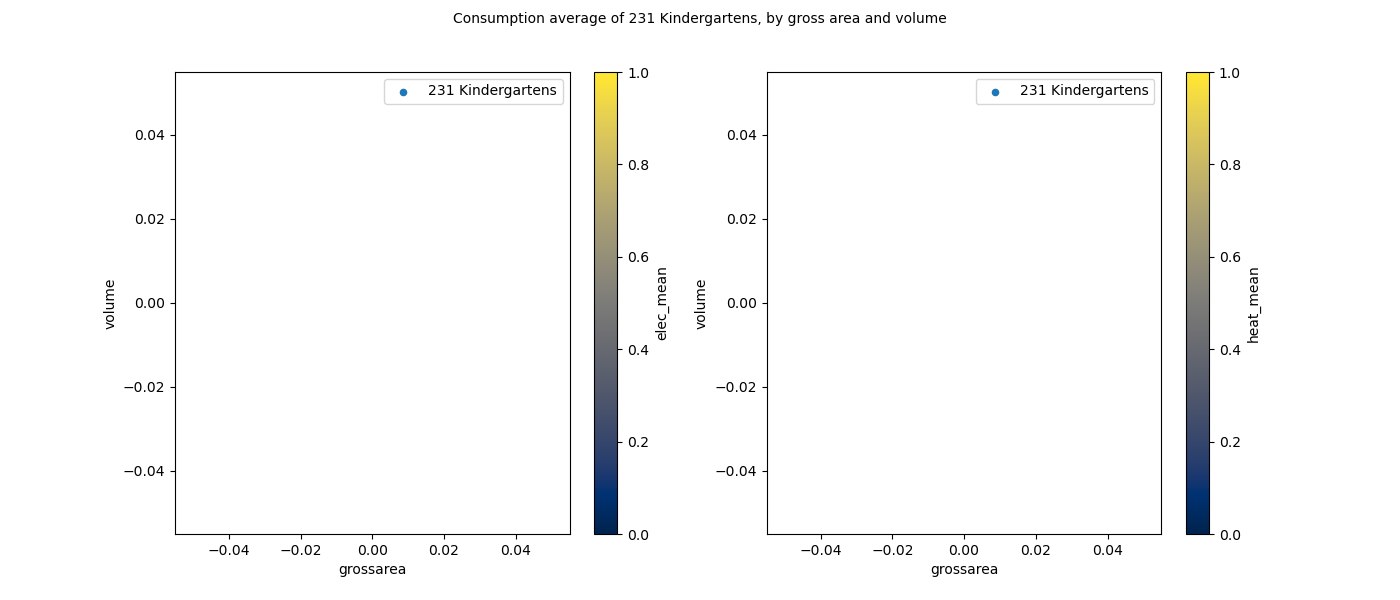
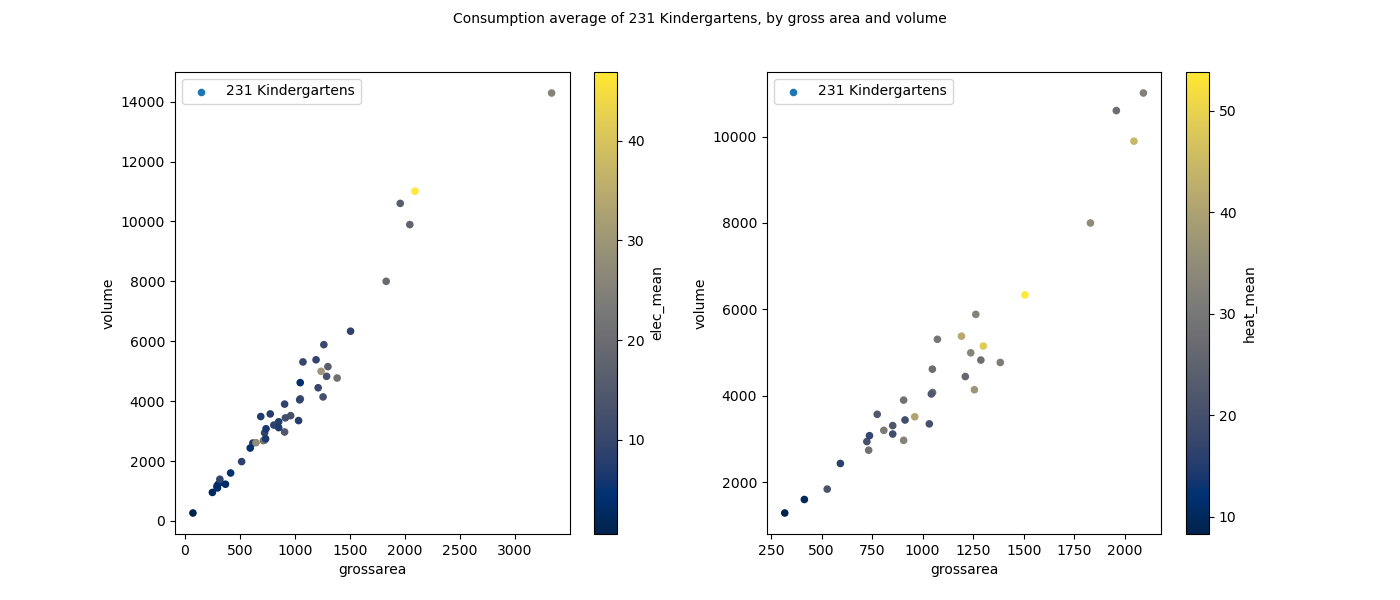
some results

diff --git a/Scripts/intendedUseConsumption.py b/Scripts/intendedUseConsumption.py
@@ -15,6 +15,7 @@ def getMeanDF(retrospective, id_list):
         mean = retrospective.getMeanEnergyByProperty(prop_id)
         heat_means.append(mean[0])
         elec_means.append(mean[1])
+        print(str(mean[0]) + ", " + str(mean[1]))
 
     new_meta_df = meta_df[meta_df['property_id'].isin(id_list)]
     new_meta_df["heat_mean"] = heat_means
@@ -32,7 +33,7 @@ start_time = datetime(2015, 1, 1, 0)
 end_time = datetime(2020, 1, 1, 0)
 
 # Getting the most recorded intended uses
-use_list = meta_df["intended_use"].value_counts()[0:5].index.to_list()
+use_list = meta_df["intended_use"].value_counts()[4:5].index.to_list()
 
 # Create directory if it doesn't exist
 dirName = '../Graphs/useConsumption/'
@@ -51,15 +52,18 @@ for use in use_list:
 
 
     # Setting a retrospective object
+    print("Processing " + use + " retrospective....")
     r = Retrospective(id_list, start_time, end_time)
     cons_df = r.consumption_df
+    print("Processing done")
+    print("")
 
     new_meta_df = getMeanDF(r, id_list)
 
     # Graphs
     fig, axes = plt.subplots(1, 2)
 
-    new_meta_df[new_meta_df["intended_use"] == "511 Educational building buildings"].plot(
+    new_meta_df[new_meta_df["intended_use"] == use].plot(
         ax=axes[0],
         kind='scatter',
         x='grossarea',
@@ -69,7 +73,7 @@ for use in use_list:
         label=use,
         figsize=(14, 6));
 
-    new_meta_df[new_meta_df["intended_use"] == "511 Educational building buildings"].plot(
+    new_meta_df[new_meta_df["intended_use"] == use].plot(
         ax=axes[1],
         kind='scatter',
         x='grossarea',

diff --git a/Scripts/ConsumptionByCharac.py b/Scripts/ConsumptionByCharac.py
@@ -274,13 +274,13 @@ def consumptionByContinuousCharacteristic(characteristic, start_time=datetime(20
 
 
 # ---------
-"""categoricalCharacteristics = ["intended_use", "district_name", "year_built", "floorcount", "postal_code"]
+categoricalCharacteristics = ["intended_use", "district_name", "year_built", "floorcount", "postal_code"]
 
 for char in categoricalCharacteristics:
     print("Starting................")
     print(char)
 
-    nbOfBuildingByCharacteristic = 30
+    nbOfBuildingByCharacteristic = 100
     characteristicRange = 6
     if char == "floorcount":
         characteristicRange = 6
@@ -288,18 +288,18 @@ for char in categoricalCharacteristics:
     consumptionByCategoricalCharacteristic(char, nbOfBuildingByCharacteristic=nbOfBuildingByCharacteristic,
                                            characteristicRange=characteristicRange)
 
-    print("Done................")"""
+    print("Done................")
 
 # -----------
-continuousCharacteristics = ["volume", "grossarea", "year_built", "year_renovated"]
+"""continuousCharacteristics = ["volume", "grossarea", "year_built", "year_renovated"]
 
 for char in continuousCharacteristics:
     print("Starting................")
     print(char)
 
-    nbOfBuildingByCharacteristic = 30
+    nbOfBuildingByCharacteristic = 100
     distribution_range = 6
 
     consumptionByContinuousCharacteristic(char, nbOfBuildingByCharacteristic=nbOfBuildingByCharacteristic,
                                           distribution_range=distribution_range)
-    print("Done................")
+    print("Done................")"""
